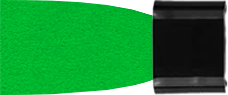
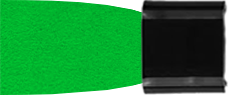
festival band edits

diff --git a/styles.css b/styles.css
@@ -1022,6 +1022,10 @@ body {
   display: none;
 }
 
+.block.festival {
+  background-position: 40px center;
+}
+
 .block.festival .days,
 .block.festival .days-num,
 .block.festival .days-label,
@@ -1097,7 +1101,7 @@ body {
   font-weight: 900;
   flex: 1 1 0;
   text-align: center;
-  margin-left: 10px;
+  margin-left: 4px;
   line-height: 1;
   letter-spacing: 0;
   font-family: inherit;
